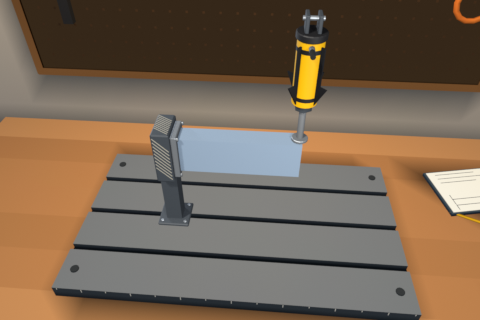
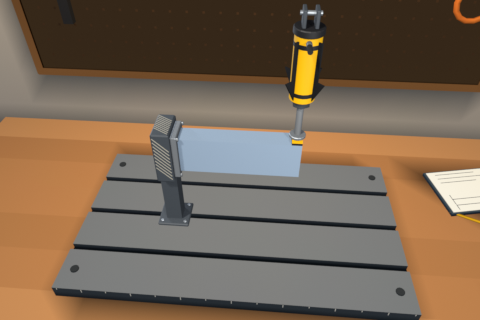
T-307: load-spreader plate jig; previews place jigs exactly as in w1-01 / w2-01

Changed region(s): [[0.5938, 0.0, 0.6875, 0.4688]]

diff --git a/tools/blender/assets/assetdefs/previews.py b/tools/blender/assets/assetdefs/previews.py
@@ -85,6 +85,7 @@ _POSE = {
     "jig_riser": (Matrix.Identity(4), None),
     "jig_cylinder": (Matrix.Identity(4), ((0.08, 0.04, 0.06), (-0.04, -0.04, -0.03))),
     "jig_weight": (Matrix.Identity(4), ((0.08, 0.04, 0.06), (-0.04, 0.0, -0.03))),
+    "jig_spreader": (scale(0.08, 1.0, 0.04), ((0.12, 0.03, 0.06), (-0.06, -0.03, -0.03))),
 }
 
 
@@ -125,7 +126,7 @@ def _riser(out_dir: str, x: float, z: float, top: float) -> None:
 def scenes(out_dir: str, prev_dir: str, outs: list[str]) -> None:
     """W1 cantilever (clamp + cylinder) and W2 beam (pin, roller, hanging weight)."""
     g = BENCH_GAP
-    # ---- W1: 24 x 8 x 4 voxels of 1 cm, x- face clamped, downward load on the tip top
+    # ---- W1 (w1-01): 24 x 8 x 4 voxels of 1 cm, x- face clamped, downward load on the tip top
     S.reset()
     _env(out_dir)
     S.setup_render(W, H, world=(0.02, 0.02, 0.025))
@@ -136,25 +137,29 @@ def scenes(out_dir: str, prev_dir: str, outs: list[str]) -> None:
     m = basis((0, 1, 0), (-1, 0, 0), (-nx / 2, g + ny / 2, 0.0)) @ scale((ny + 0.02) / 0.10, 1.0, (nz + 0.02) / 0.10)
     _jig(out_dir, "jig_clamp", m)
     _riser(out_dir, -nx / 2 - 0.03, 0.0, g + ny / 2 - 0.06 * (ny + 0.02) / 0.10)
-    # cylinder: force (0, -F, 0) on the top of the last column: -Y = F, so identity rotation
-    _jig(out_dir, "jig_cylinder", translate(nx / 2 - 0.005, g + ny, 0.0))
+    # w1-01 load: cells x 22..23, y 7, z 0..3, force (0, -F, 0) -> contact on the top face,
+    # -Y = F so no rotation; 2 x 4 cm patch -> spreader scaled to it, cylinder on top
+    _jig(out_dir, "jig_spreader", translate(nx / 2 - 0.01, g + ny, 0.0) @ scale(0.02, 1.0, nz))
+    _jig(out_dir, "jig_cylinder", translate(nx / 2 - 0.01, g + ny + 0.008, 0.0))
     S.camera((0.05, g + 0.55, 0.62), (0.0, g + 0.02, 0.0), lens=30.0)
     _render(prev_dir, "scene_w1", outs)
 
-    # ---- W2: 32 x 8 x 8, pin + roller under the ends, hanging weight under mid-span
+    # ---- W2 (w2-01): 32 x 8 x 8, pin + roller under the ends (2 x 8 cells each), centre
+    # load on 2 x 8 top cells -> spreader plate scaled to the patch + cylinder on top of it
     S.reset()
     _env(out_dir)
     S.setup_render(W, H, world=(0.02, 0.02, 0.025))
     _lights()
     nx, ny, nz = 0.32, 0.08, 0.08
     _domain((nx, ny, nz), (-nx / 2, g, -nz / 2))
-    for name, x in (("jig_pin", -nx / 2 + 0.005), ("jig_roller", nx / 2 - 0.005)):
+    for name, x in (("jig_pin", -nx / 2 + 0.01), ("jig_roller", nx / 2 - 0.01)):
         # bottom face: +Y -> -Y (down), local X (pin axis) -> +Z across the beam
         m = basis((0, 0, 1), (0, -1, 0), (x, g, 0.0)) @ scale(nz / 0.08, 1.0, 1.0)
         _jig(out_dir, name, m)
         _riser(out_dir, x, 0.0, g - 0.06)
-    _jig(out_dir, "jig_weight", translate(0.0, g, 0.0))
-    S.camera((0.12, g + 0.42, 0.62), (0.0, g - 0.02, 0.0), lens=30.0)
+    _jig(out_dir, "jig_spreader", translate(0.0, g + ny, 0.0) @ scale(0.02, 1.0, nz))
+    _jig(out_dir, "jig_cylinder", translate(0.0, g + ny + 0.008, 0.0))
+    S.camera((0.12, g + 0.5, 0.62), (0.0, g + 0.02, 0.0), lens=30.0)
     _render(prev_dir, "scene_w2", outs)
 
 

diff --git a/tools/blender/assets/assetdefs/jigs.py b/tools/blender/assets/assetdefs/jigs.py
@@ -198,6 +198,20 @@ def weight() -> dict[str, MeshBuilder]:
     return {"weight_hook": hook, "weight_stack": stack}
 
 
+SPREADER_T = 0.008  # spreader plate thickness
+
+
+def spreader() -> dict[str, MeshBuilder]:
+    """Load-spreader plate for wide load patches: 1 x 1 m in X/Z (scale it to the patch in
+    metres), y in [0, 0.008]. Put the cylinder on top of it at y = 0.008."""
+    plate = MeshBuilder()
+    t = SPREADER_T
+    plate.add(box((1.0, t * 0.6, 1.0), (0.0, t * 0.3, 0.0)), color=P.LOAD_BLACK, mat=PAINT, bake=False)
+    plate.add(box((1.0, t * 0.4, 1.0), (0.0, t * 0.8, 0.0), skip_faces=("-y",)), color=P.LOAD_YELLOW, mat=PAINT,
+              bake=False)
+    return {"spreader_plate": plate}
+
+
 # =========================================================================== build
 
 JIGS = {
@@ -229,6 +243,11 @@ JIGS = {
         "kind": "load", "force": "pull",
         "frame": "origin = contact patch centre (underside); -Y = force direction (down); hangs in y <= 0",
         "saddle": [0.026, 0.026], "animate": "weight_stack.position.y",
+    }),
+    "jig_spreader": (spreader, {
+        "kind": "load-spreader", "use": "under a cylinder when the load patch is wider than its pad",
+        "frame": "origin = contact patch centre; -Y = force direction; plate in y in [0, 0.008]",
+        "scaleXZ": "patch size in metres (unit plate)", "thickness": SPREADER_T,
     }),
 }
 

diff --git a/tools/blender/assets/README.md b/tools/blender/assets/README.md
@@ -27,6 +27,7 @@ the icons exist at 128×128 and that the folder stays under 1.5 MB. `python3 glb
 | `jig_riser.glb` | stand from the bench up to a support |
 | `jig_cylinder.glb` | hydraulic pusher (load), yellow with arrow fins |
 | `jig_weight.glb` | hanging slotted weights (load, downward only) |
+| `jig_spreader.glb` | load-spreader plate (unit size, scale to the patch) under a cylinder |
 | `debris.glb` | `chip_0..3` (convex, 6–11 mm) + `swarf_0` curl |
 | `crack_decal.png` | 512² dark cracks, straight alpha, centred, radius ≤ 0.47 |
 | `crack_tile.png` | 256² seamlessly tileable crack mask (alpha), ~1 tile per voxel face |
@@ -39,7 +40,8 @@ helpers, PNG I/O), `assetdefs/` (one module per family, `palette.py` for colours
 ## Conventions
 
 Metres, Y-up glTF. Every asset root node carries its metadata as glTF `extras`
-(three.js: `object.userData`), duplicated in `manifest.json`.
+(three.js: `object.userData`), duplicated in `manifest.json`. Named parts are child nodes;
+a part with several materials loads in three.js as a `Group` of that name (move/scale the group).
 
 **Bench / room.** Shared frame: origin = centre of the test-bed top surface, camera side
 = +Z, wood top y = −0.03, floor y = −0.93, back wall z = −0.55. Place both at
@@ -67,13 +69,17 @@ single-sided (camera outside the room sees through them). Debris colliders (boxe
   y ∈ [0, 0.245]. `jig_weight` pulls and is only for F̂ ≈ −Y: put it on the underside
   (outward normal ≈ +F̂); it hangs in y ∈ [−0.125, 0]. If the load cells' face opposite to
   F̂ is covered by material, use the weight (downward) or the cylinder on the far side.
+  When the patch is wider than the Ø 0.032 pad (all current W1/W2 loads: 2 × 4 or 2 × 8
+  cells, w2-03 the whole top), put `jig_spreader` at the contact point, scaled X/Z to the
+  patch size in metres (unit plate, 0.008 thick), and the cylinder on top of it at
+  `contact − 0.008 · F̂`.
 - *Animation* (load test): `cylinder_rod` can retract up to `rodTravel` = 0.04 along +Y
   (rest pose = pad touching); `weight_stack` / the whole root move along −Y. During the
   deformation, translate the load jig root with the (scaled) displacement of its patch.
 
 Rotation for a jig: build the basis `X = tangent, Y = n (support) or −F̂ (load),
 Z = X × Y`, then apply the per-axis scale. `previews.py::scenes` does exactly this for a
-W1 cantilever (clamp + riser + cylinder) and a W2 beam (pin, roller, risers, weight).
+w1-01 (clamp + riser, spreader + cylinder) and w2-01 (pin, roller, risers, spreader + cylinder).
 
 **Materials.** Jigs: `jig_paint` (metal 0, rough 0.55), `jig_steel` (metal 0.6, rough
 0.35), `jig_rubber`; albedo × mild AO in `COLOR_0`. Metals need an environment map
